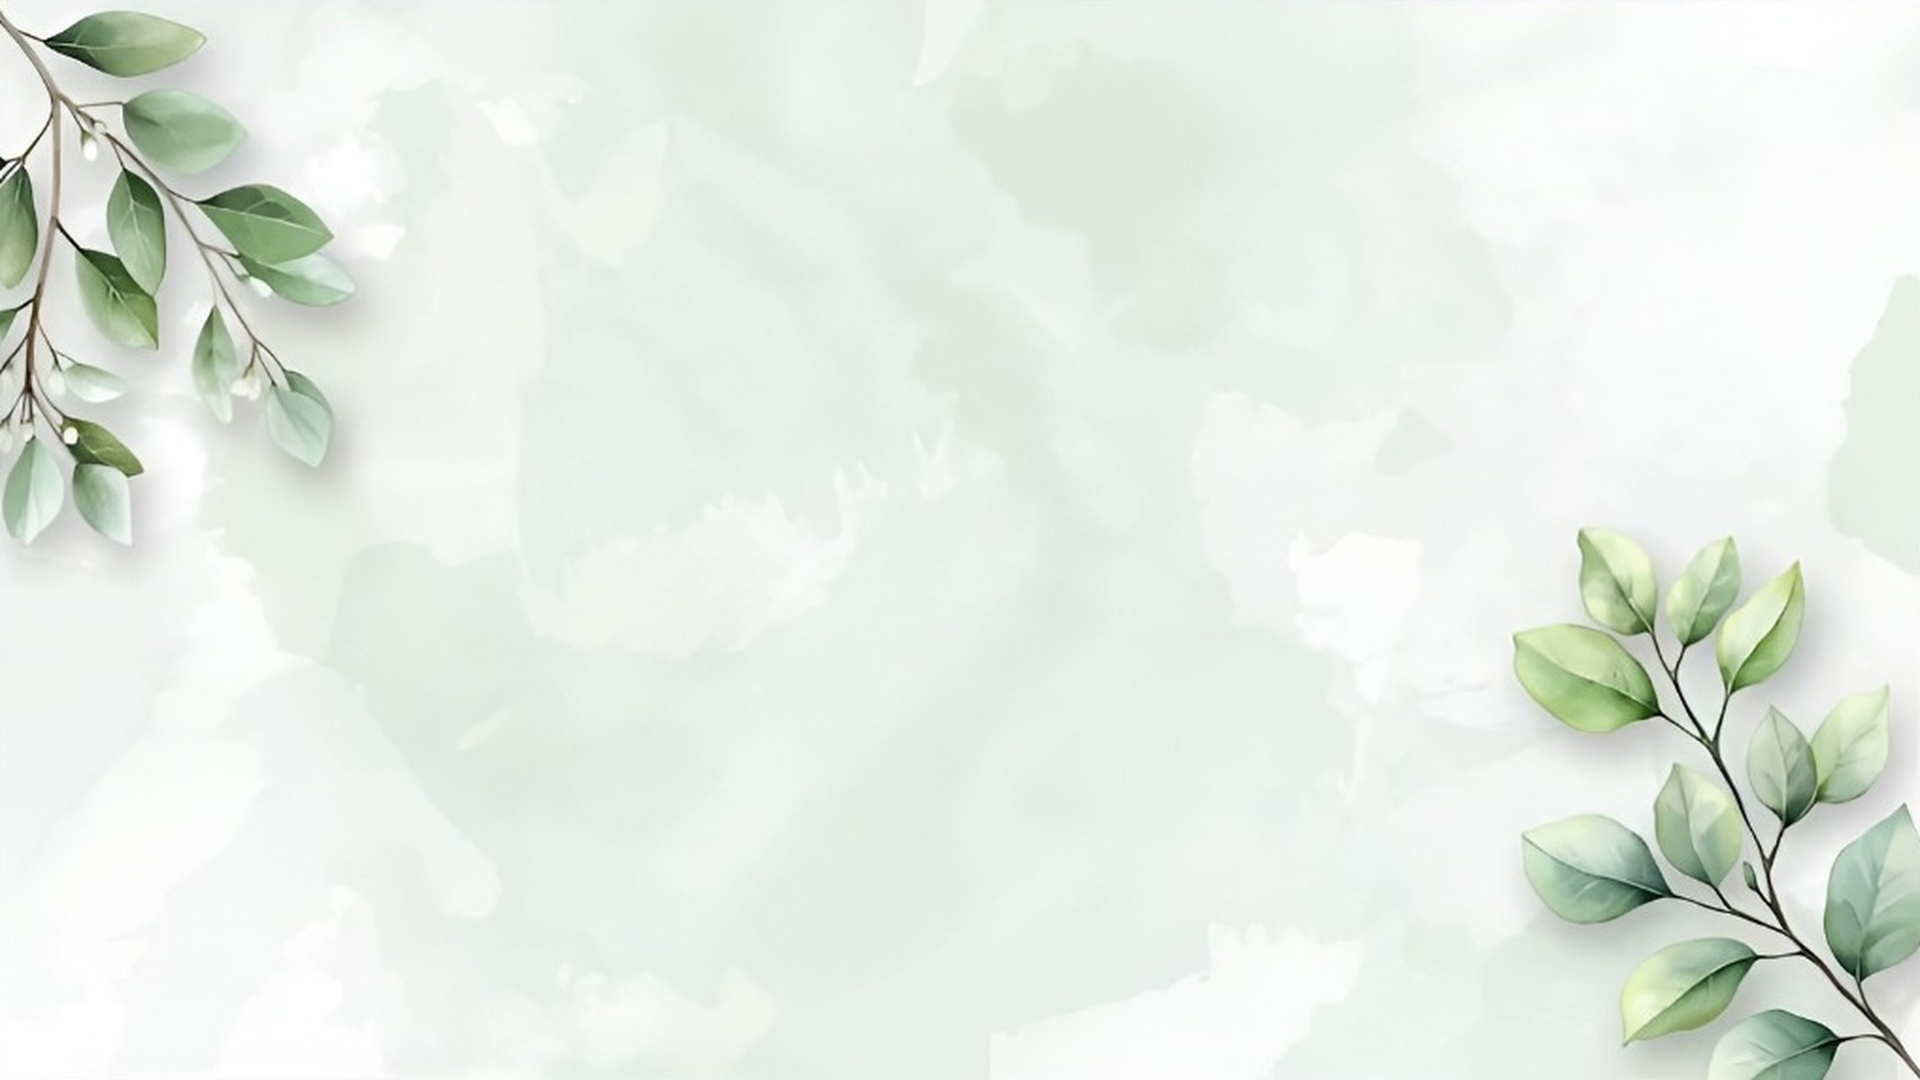
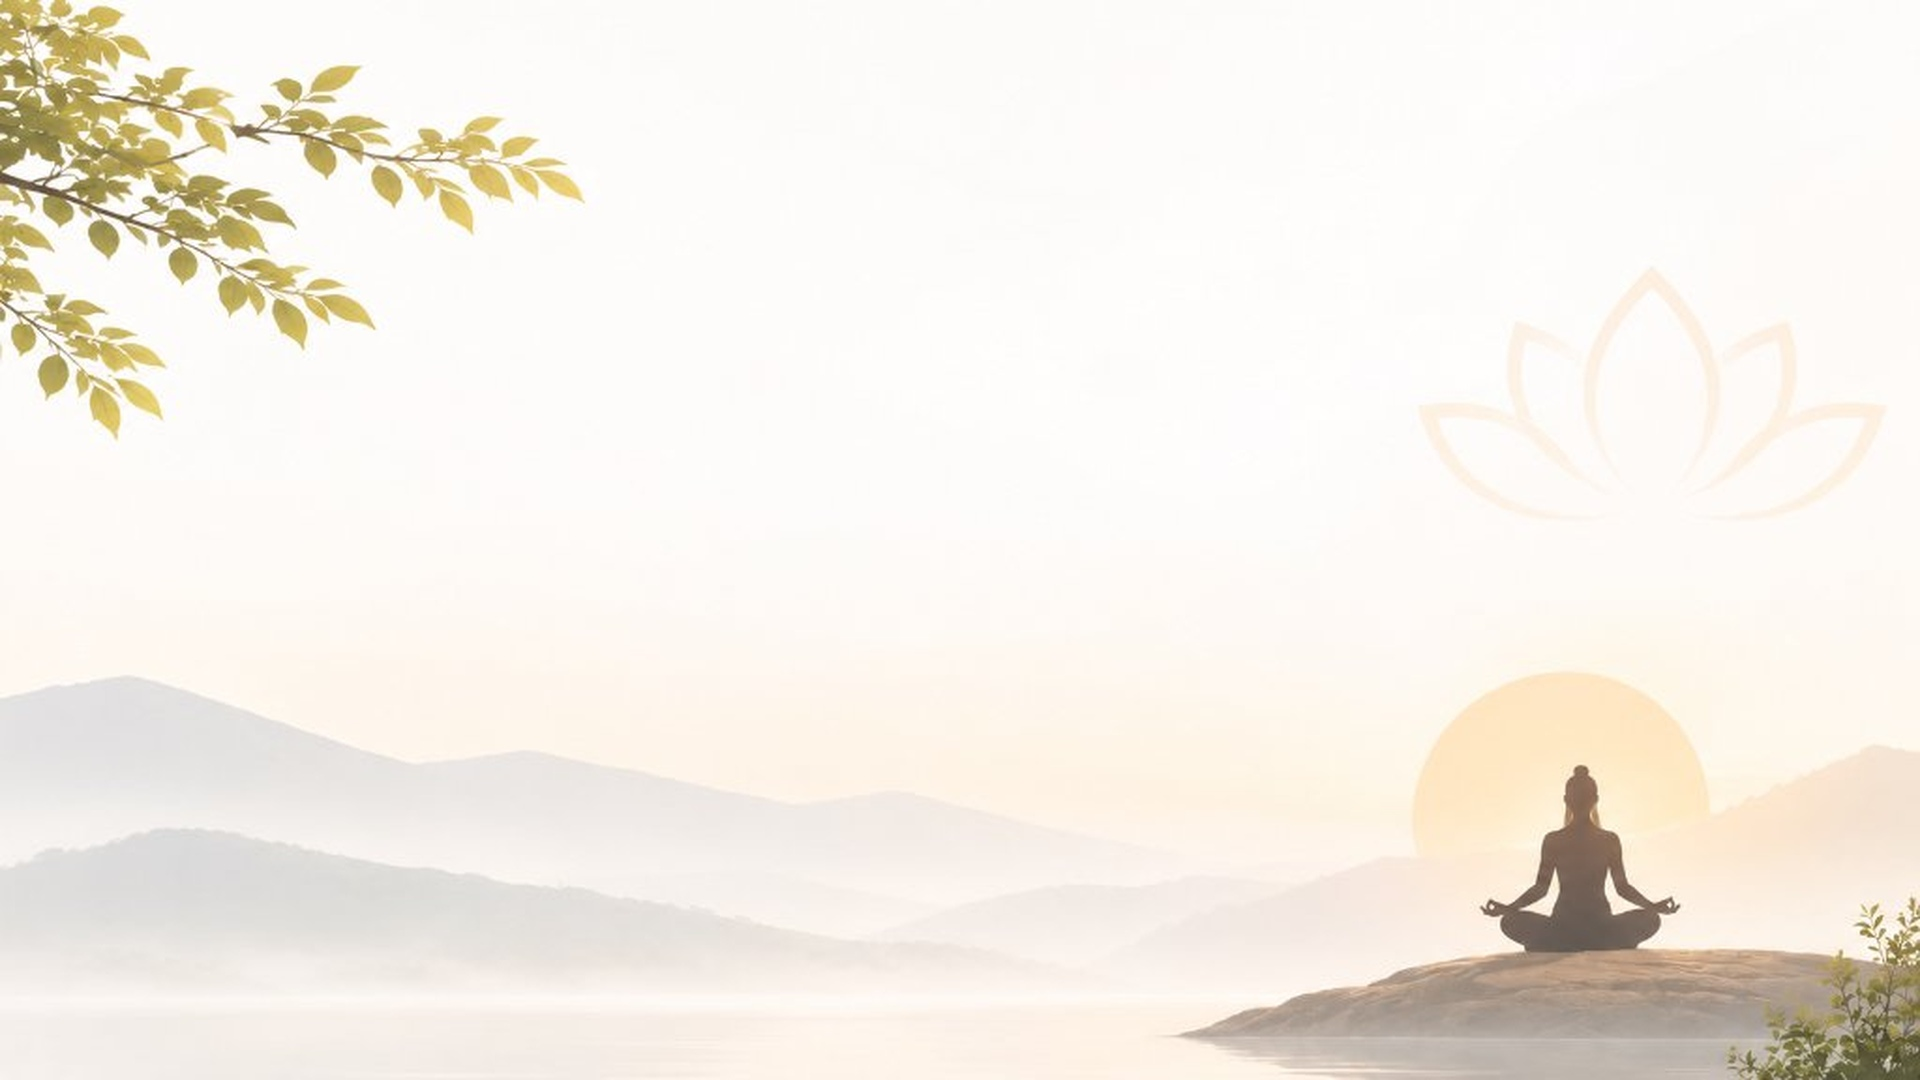
Fixed all frontend bugs, Changed some elements

diff --git a/wp-content/plugins/rashtrotthana-chatbot/assets/css/chatbot.css b/wp-content/plugins/rashtrotthana-chatbot/assets/css/chatbot.css
@@ -52,6 +52,7 @@
   flex-direction: column;
   align-items: flex-end;
   gap: 12px;
+  pointer-events: none !important; /* CRITICAL: Never block clicks on page behind widget */
 }
 
 /* ── Toggle Button ─────────────────────────────────────────── */
@@ -71,15 +72,17 @@
   white-space: nowrap;
   box-shadow: 0 8px 28px rgba(0,0,0,.14);
   border: 1px solid rgba(0,0,0,.06);
-  pointer-events: none;
+  pointer-events: none !important;
   opacity: 0;
+  visibility: hidden;
   transform: translateY(8px) scale(.92);
   transform-origin: bottom right;
-  transition: opacity .35s ease, transform .35s ease;
+  transition: opacity .35s ease, transform .35s ease, visibility .35s ease;
 }
 
 #rcht-tooltip.rcht-tooltip-visible {
   opacity: 1;
+  visibility: visible;
   transform: translateY(0) scale(1);
 }
 
@@ -107,6 +110,7 @@
   display: flex;
   align-items: center;
   justify-content: center;
+  pointer-events: auto !important; /* Interactive even though parent #rcht-widget is pointer-events: none */
   /* Warm saffron-to-golden yoga brand gradient */
   background: linear-gradient(145deg, #ff6b2b 0%, #f59e0b 60%, #ef4444 100%);
   color: #fff;
@@ -223,14 +227,15 @@
   background: var(--rcht-bg);
   border-radius: var(--rcht-radius-xl);
   box-shadow: var(--rcht-shadow-lg);
-  display: flex;
+  display: none !important;
   flex-direction: column;
   overflow: hidden;
   border: 1px solid var(--rcht-border);
   /* Hidden state */
   opacity: 0;
+  visibility: hidden !important;
   transform: translateY(16px) scale(.97);
-  pointer-events: none;
+  pointer-events: none !important;
   transition:
     opacity var(--rcht-transition),
     transform var(--rcht-transition),
@@ -239,9 +244,11 @@
 }
 
 #rcht-window.rcht-open {
+  display: flex !important;
+  visibility: visible !important;
   opacity: 1;
   transform: translateY(0) scale(1);
-  pointer-events: auto;
+  pointer-events: auto !important;
 }
 
 /* ── Fullscreen / Full Page Expansion Mode ─────────────────── */

diff --git a/wp-content/themes/rashtrotthana/assets/css/theme-refresh.css b/wp-content/themes/rashtrotthana/assets/css/theme-refresh.css
@@ -49,13 +49,13 @@
    ========================================================================== */
 
 html {
-    background-color: #EAF1EA;
+    background-color: #FCFBF9;
 }
 
 body {
     position: relative;
     min-height: 100vh;
-    background-color: #EAF1EA !important;
+    background-color: #FCFBF9 !important;
     background-image: url('../images/watercolor-bg.jpg') !important;
     background-size: cover !important;
     background-position: center center !important;
@@ -896,11 +896,14 @@ body:not(.home) [class*="-breadcrumb"] {
    ========================================================================== */
 
 /* Full-page Background Blur when greeting is active */
-html.rs-greeting-active body > *:not(#rs-greeting-overlay) {
+html.rs-greeting-active body > *:not(#rs-greeting-overlay):not(.rs-site-header) {
     filter: blur(14px) brightness(0.92) !important;
     transition: filter 0.5s cubic-bezier(0.16, 1, 0.3, 1) !important;
-    pointer-events: none !important;
-    user-select: none !important;
+}
+
+/* Ensure site header navigation is ALWAYS fully interactive and clickable */
+.rs-site-header {
+    pointer-events: auto !important;
 }
 
 body > *:not(#rs-greeting-overlay) {

diff --git a/wp-content/themes/rashtrotthana/assets/js/navigation.js b/wp-content/themes/rashtrotthana/assets/js/navigation.js
@@ -12,15 +12,25 @@ document.addEventListener('DOMContentLoaded', function () {
     }
 
     button.addEventListener('click', function (e) {
+      e.preventDefault();
       e.stopPropagation();
       const isOpen = !menu.classList.contains('is-open');
       setNavState(isOpen);
     });
 
-    // Close when tapping any navigation link
+    // Handle tapping navigation links
     menu.querySelectorAll('.rs-nav-link').forEach(function (link) {
-      link.addEventListener('click', function () {
-        setNavState(false);
+      link.addEventListener('click', function (e) {
+        var href = link.getAttribute('href');
+        var isLocalAnchor = href && (href.startsWith('#') || (href.includes('#') && href.split('#')[0] === window.location.pathname));
+        if (isLocalAnchor) {
+          setNavState(false);
+        } else {
+          // For full page transitions, do not set display:none synchronously
+          // so that touch/mobile browsers do not abort the navigation
+          button.setAttribute('aria-expanded', 'false');
+          button.classList.remove('is-active');
+        }
       });
     });
 

diff --git a/wp-content/plugins/rashtrotthana-chatbot/assets/js/chatbot.js b/wp-content/plugins/rashtrotthana-chatbot/assets/js/chatbot.js
@@ -646,11 +646,15 @@
   }
 
   /* ── Event Listeners ─────────────────────────────────────── */
-  toggle.addEventListener('click', function () {
+  toggle.addEventListener('click', function (e) {
+    e.stopPropagation();
     if (isOpen) { closeChat(); } else { openChat(); }
   });
 
-  closeBtn.addEventListener('click', closeChat);
+  closeBtn.addEventListener('click', function (e) {
+    e.stopPropagation();
+    closeChat();
+  });
   if (expandBtn) {
     expandBtn.addEventListener('click', toggleFullscreen);
   }
@@ -665,6 +669,15 @@
 
   document.addEventListener('keydown', function (e) {
     if (e.key === 'Escape' && isOpen) closeChat();
+  });
+
+  /* Close chat when clicking outside */
+  document.addEventListener('click', function (e) {
+    if (isOpen && window_ && toggle) {
+      if (!window_.contains(e.target) && !toggle.contains(e.target)) {
+        closeChat();
+      }
+    }
   });
 
   quickBtns.forEach(function (btn) {

diff --git a/wp-content/themes/rashtrotthana/header.php b/wp-content/themes/rashtrotthana/header.php
@@ -10,9 +10,12 @@
 
 <!-- Site Greeting Overlay (Appears only once on first visit, not on other pages) -->
 <script>
-if (typeof sessionStorage !== 'undefined' && sessionStorage.getItem('rs_greeting_shown')) {
-    document.write('<style>#rs-greeting-overlay{display:none!important}</style>');
-}
+try {
+    if ((typeof localStorage !== 'undefined' && localStorage.getItem('rs_greeting_shown')) ||
+        (typeof sessionStorage !== 'undefined' && sessionStorage.getItem('rs_greeting_shown'))) {
+        document.write('<style>#rs-greeting-overlay{display:none!important}</style>');
+    }
+} catch (e) {}
 </script>
 <div id="rs-greeting-overlay" class="rs-greeting-overlay" role="dialog" aria-modal="true" aria-label="Welcome to Rashtrotthana Yoga">
     <div class="rs-greeting-card">
@@ -43,14 +46,15 @@ if (typeof sessionStorage !== 'undefined' && sessionStorage.getItem('rs_greeting
     var overlay = document.getElementById('rs-greeting-overlay');
     if (!overlay) return;
 
-    // Show ONLY ONCE on first visit; never again when navigating between pages
+    // Show ONLY ONCE on first visit; never again when navigating between pages or across tabs
     try {
-        if (sessionStorage.getItem('rs_greeting_shown')) {
+        if (localStorage.getItem('rs_greeting_shown') || sessionStorage.getItem('rs_greeting_shown')) {
             if (overlay && overlay.parentNode) {
                 overlay.parentNode.removeChild(overlay);
             }
             return;
         }
+        localStorage.setItem('rs_greeting_shown', '1');
         sessionStorage.setItem('rs_greeting_shown', '1');
     } catch (e) {}
 
@@ -62,16 +66,26 @@ if (typeof sessionStorage !== 'undefined' && sessionStorage.getItem('rs_greeting
         if (dismissed) return;
         dismissed = true;
         document.documentElement.classList.remove('rs-greeting-active');
+        try {
+            localStorage.setItem('rs_greeting_shown', '1');
+            sessionStorage.setItem('rs_greeting_shown', '1');
+        } catch (e) {}
         overlay.classList.add('rs-dismissing');
         setTimeout(function() {
             if (overlay && overlay.parentNode) {
                 overlay.parentNode.removeChild(overlay);
             }
-        }, 520);
+        }, 320);
     }
 
     // Auto-dismiss after 3 seconds (3000ms)
     var autoTimer = setTimeout(dismissGreeting, 3000);
+
+    // Dismiss instantly on scroll so page is never blocked
+    window.addEventListener('scroll', function() {
+        clearTimeout(autoTimer);
+        dismissGreeting();
+    }, { passive: true, once: true });
 
     var closeBtn = document.getElementById('rs-greeting-close');
     if (closeBtn) {
@@ -99,10 +113,8 @@ if (typeof sessionStorage !== 'undefined' && sessionStorage.getItem('rs_greeting
     });
 
     window.addEventListener('keydown', function(e) {
-        if (e.key === 'Escape') {
-            clearTimeout(autoTimer);
-            dismissGreeting();
-        }
+        clearTimeout(autoTimer);
+        dismissGreeting();
     });
 })();
 </script>

diff --git a/wp-content/themes/rashtrotthana/footer.php b/wp-content/themes/rashtrotthana/footer.php
@@ -49,6 +49,7 @@ $whatsapp_num  = function_exists('get_field') ? (get_field('ry_whatsapp_number',
             <a href="<?php echo esc_url( home_url( '/activities/' ) ); ?>">Activities</a>
             <a href="<?php echo esc_url( home_url( '/centers/' ) ); ?>">Centers</a>
             <a href="<?php echo esc_url( home_url( '/events/' ) ); ?>">Events</a>
+            <a href="<?php echo esc_url( home_url( '/gallery/' ) ); ?>">Gallery</a>
             <a href="<?php echo esc_url( home_url( '/contact-us/' ) ); ?>">Contact Us</a>
         </div>
         <div>

diff --git a/wp-content/themes/rashtrotthana/template-parts/home/hero.php b/wp-content/themes/rashtrotthana/template-parts/home/hero.php
@@ -304,6 +304,17 @@ $hero_images = array(
 .rs-hero-slide-dots {
     z-index: 6 !important;
 }
+.rs-hero-slide-dots button {
+    position: relative !important;
+    touch-action: manipulation !important;
+    cursor: pointer !important;
+}
+.rs-hero-slide-dots button::before {
+    content: '' !important;
+    position: absolute !important;
+    inset: -12px !important;
+    cursor: pointer !important;
+}
 </style>
 
 <script>

diff --git a/wp-content/themes/rashtrotthana/page-events.php b/wp-content/themes/rashtrotthana/page-events.php
@@ -3092,6 +3092,7 @@ document.addEventListener('DOMContentLoaded', function () {
                 if (errorEl) {
                     errorEl.textContent = 'Network or server error. Please try again.';
                     errorEl.style.display = 'block';
+                }
             });
         });
     }

diff --git a/wp-content/plugins/rashtrotthana-chatbot/rashtrotthana-chatbot.php b/wp-content/plugins/rashtrotthana-chatbot/rashtrotthana-chatbot.php
@@ -13,7 +13,7 @@ if ( ! defined( 'ABSPATH' ) ) {
     exit;
 }
 
-define( 'RCHT_VERSION',    '1.7.1' );
+define( 'RCHT_VERSION',    '1.7.2' );
 define( 'RCHT_PLUGIN_DIR', plugin_dir_path( __FILE__ ) );
 define( 'RCHT_PLUGIN_URL', plugin_dir_url( __FILE__ ) );
 
